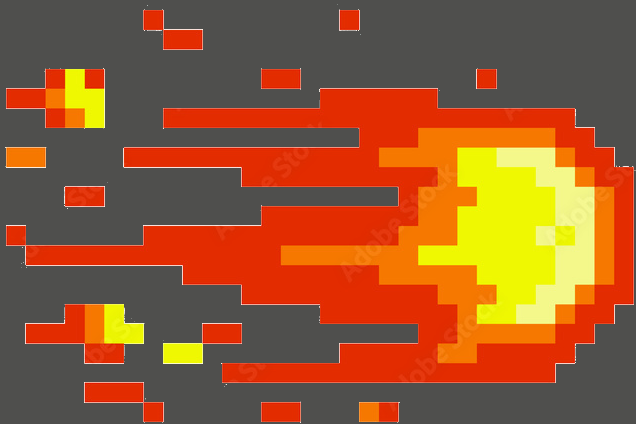
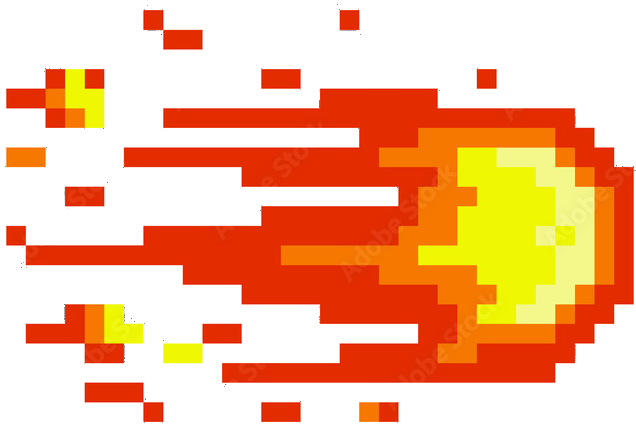
Faze 3 quase pronta

diff --git a/Trabalho_1/Code/PrototipoProjetoPOO2025/src/Modelo/Villan_2.java b/Trabalho_1/Code/PrototipoProjetoPOO2025/src/Modelo/Villan_2.java
@@ -71,6 +71,10 @@ public class Villan_2 extends Personagem implements Serializable {
             BufferedImage resizedImg = new BufferedImage(blockSize, blockSize, BufferedImage.TYPE_INT_ARGB);
             Graphics g = resizedImg.createGraphics();
             
+            // Important: Clear the graphics context with a fully transparent color
+            g.setColor(new java.awt.Color(0, 0, 0, 0));
+            g.fillRect(0, 0, blockSize, blockSize);
+            
             // Draw the image centered in the block
             g.drawImage(img, xOffset, yOffset, finalWidth, finalHeight, null);
             g.dispose();
@@ -80,7 +84,7 @@ public class Villan_2 extends Personagem implements Serializable {
     }
     
     public void autoDesenho(){
-        // Only shoot fireballs if the game is not over
+        // Always process shooting logic, regardless of visibility
         if (!Hero.isGameOver() && targetHero != null) {
             cooldown++;
             if(cooldown >= maxCooldown) {
@@ -89,39 +93,34 @@ public class Villan_2 extends Personagem implements Serializable {
             }
         }
         
-        // Always draw the villain, even when game is over
+        // Draw the villain using parent method
         super.autoDesenho();
     }
     
     private void shootFireball() {
         if (targetHero == null) return;
         
-        // Calculate direction toward hero
+        // Calculate direction toward hero - but only horizontally
         int villainRow = this.getPosicao().getLinha();
         int villainCol = this.getPosicao().getColuna();
-        int heroRow = targetHero.getPosicao().getLinha();
-        int heroCol = targetHero.getPosicao().getColuna();
         
-        // Calculate direction vector
-        int rowDirection = 0;
-        int colDirection = 0;
-        
-        // Determine primary direction (up, down, left, right)
-        if (Math.abs(heroRow - villainRow) > Math.abs(heroCol - villainCol)) {
-            // Vertical movement is primary
-            rowDirection = heroRow > villainRow ? 1 : -1;
-        } else {
-            // Horizontal movement is primary
-            colDirection = heroCol > villainCol ? 1 : -1;
-        }
+        // Set direction vector - only horizontal (no vertical shooting)
+        int rowDirection = 0; // Always 0 for horizontal shooting
+        int colDirection = bRight ? 1 : -1; // 1 for right, -1 for left
         
         try {
             // Create the fireball
             Fireball fireball = new Fireball("Fireball.png", rowDirection, colDirection);
-            fireball.setPosicao(villainRow, villainCol);
+            
+            // Position the fireball one cell away from the villain in the shooting direction
+            fireball.setPosicao(villainRow, villainCol + colDirection);
             
             // Add to the pending fireballs list
             pendingFireballs.add(fireball);
+            
+            // Debug output
+            System.out.println("Fireball created at position: " + villainRow + "," + (villainCol + colDirection) + 
+                               " moving with direction: " + rowDirection + "," + colDirection);
         } catch (Exception e) {
             System.out.println("Error creating fireball: " + e.getMessage());
         }
@@ -149,5 +148,24 @@ public class Villan_2 extends Personagem implements Serializable {
     public void matarHero(Hero hero) {
         System.out.println("Hero killed by villain!"); // Debug message
         hero.morrer();
+    }
+
+    // Add these methods to Villan_2 class
+    public void setShootRate(int rate) {
+        this.maxCooldown = rate;
+    }
+
+    public void setShootDirection(boolean shootRight) {
+        this.bRight = shootRight;
+    }
+
+    public void processLogic() {
+        if (targetHero != null) {
+            cooldown++;
+            if(cooldown >= maxCooldown) {
+                shootFireball();
+                cooldown = 0;
+            }
+        }
     }
 }

diff --git a/Trabalho_1/Code/PrototipoProjetoPOO2025/src/Modelo/Fireball.java b/Trabalho_1/Code/PrototipoProjetoPOO2025/src/Modelo/Fireball.java
@@ -6,6 +6,8 @@ import java.awt.image.BufferedImage;
 import java.io.Serializable;
 import javax.swing.ImageIcon;
 import Auxiliar.Consts;
+import java.awt.geom.AffineTransform;
+import java.awt.image.AffineTransformOp;
 
 public class Fireball extends Personagem implements Serializable {
     private int rowDirection;
@@ -24,6 +26,7 @@ public class Fireball extends Personagem implements Serializable {
     
     /**
      * Resize the image with scaling, keeping it centered in the block.
+     * Also mirror the image if the fireball is moving left.
      */
     private void resizeImage() {
         if (iImage != null) {
@@ -50,6 +53,21 @@ public class Fireball extends Personagem implements Serializable {
             int finalWidth = (int)(desiredWidth * scaleToFit);
             int finalHeight = (int)(desiredHeight * scaleToFit);
             
+            // Create a temporary BufferedImage to draw the original image
+            BufferedImage originalImg = new BufferedImage(finalWidth, finalHeight, BufferedImage.TYPE_INT_ARGB);
+            Graphics g1 = originalImg.createGraphics();
+            g1.drawImage(img, 0, 0, finalWidth, finalHeight, null);
+            g1.dispose();
+            
+            // If moving left (colDirection is negative), mirror the image horizontally
+            if (colDirection < 0) {
+                // Create mirrored version using AffineTransform
+                AffineTransform tx = AffineTransform.getScaleInstance(-1, 1);
+                tx.translate(-originalImg.getWidth(null), 0);
+                AffineTransformOp op = new AffineTransformOp(tx, AffineTransformOp.TYPE_NEAREST_NEIGHBOR);
+                originalImg = op.filter(originalImg, null);
+            }
+            
             // Calculate offsets to center the image in the block
             int xOffset = (blockSize - finalWidth) / 2;
             int yOffset = (blockSize - finalHeight) / 2;
@@ -58,8 +76,12 @@ public class Fireball extends Personagem implements Serializable {
             BufferedImage resizedImg = new BufferedImage(blockSize, blockSize, BufferedImage.TYPE_INT_ARGB);
             Graphics g = resizedImg.createGraphics();
             
-            // Draw the image centered in the block
-            g.drawImage(img, xOffset, yOffset, finalWidth, finalHeight, null);
+            // Important: Clear the graphics context with a fully transparent color
+            g.setColor(new java.awt.Color(0, 0, 0, 0));
+            g.fillRect(0, 0, blockSize, blockSize);
+            
+            // Draw the image centered in the block (original or mirrored)
+            g.drawImage(originalImg, xOffset, yOffset, null);
             g.dispose();
             
             iImage = new ImageIcon(resizedImg);
@@ -76,9 +98,9 @@ public class Fireball extends Personagem implements Serializable {
         // If couldn't move or lifespan is over, mark for removal
         if (!moved || lifespan <= 0 || 
             pPosicao.getLinha() < 0 || 
-            pPosicao.getLinha() >= Consts.RES ||
+            pPosicao.getLinha() >= Consts.MUNDO_ALTURA ||  // Use world size, not screen size
             pPosicao.getColuna() < 0 || 
-            pPosicao.getColuna() >= Consts.RES) {
+            pPosicao.getColuna() >= Consts.MUNDO_LARGURA) {  // Use world size, not screen size
             // Mark for removal
             shouldBeRemoved = true;
         }

diff --git a/Modelo/Villan_2.java b/Modelo/Villan_2.java
@@ -1,0 +1,62 @@
+package Modelo;
+
+import Auxiliar.Consts;
+import Mapas.Fases;
+import auxiliar.Posicao;
+
+public class Villan_2 extends Personagem {
+    private int shootingRate = 30;
+    private boolean shootRight = true;
+    private int shootingCounter = 0;
+    private Fases fases; // Reference to the Fases object
+    
+    public Villan_2(String sNomeImagePNG) {
+        super(sNomeImagePNG);
+    }
+    
+    public void setFases(Fases fases) {
+        this.fases = fases;
+    }
+    
+    public void setShootingRate(int rate) {
+        this.shootingRate = rate;
+    }
+    
+    public void setShootingDirection(boolean right) {
+        this.shootRight = right;
+    }
+    
+    @Override
+    public void autoPilot() {
+        // Increment counter
+        shootingCounter++;
+        
+        // Check if it's time to shoot
+        if (shootingCounter >= shootingRate && fases != null) {
+            shootFireball();
+            shootingCounter = 0;
+        }
+    }
+    
+    private void shootFireball() {
+        // Create a new fireball
+        Fireball fireball = new Fireball("Fireball.png"); // Use your fireball image name
+        
+        // Set position to start from villain
+        int startX = this.getPosicao().getColuna();
+        int startY = this.getPosicao().getLinha();
+        
+        // Adjust starting position based on direction
+        if (shootRight) {
+            startX += 1; // Start fireball to the right of villain
+        } else {
+            startX -= 1; // Start fireball to the left of villain
+        }
+        
+        fireball.setPosicao(startY, startX);
+        fireball.setDirection(shootRight);
+        
+        // Add fireball to game elements
+        fases.addFireball(fireball);
+    }
+} 

diff --git a/Trabalho_1/Code/PrototipoProjetoPOO2025/src/Mapas/Fases.java b/Trabalho_1/Code/PrototipoProjetoPOO2025/src/Mapas/Fases.java
@@ -113,11 +113,14 @@ public class Fases {
         addFruta(18, 8);
         addFruta(25, 4);
 
-        // Add villains - uncomment and modify as needed
-        addVilao2(4, 1, true); 
-        addVilao2(11, 1, true); 
-        addVilao2(18, 1, true); 
-        addVilao2(25, 1, true); 
+        // Add villains with rate and direction parameters
+        // Parameters: (row, column, rate, shootRight)
+        addVilao2(4, 1, 20, true);   // Move to column 2 (away from wall) and shoot right
+        addVilao2(11, 13, 20, false);  // Move to column 2 (away from wall) and shoot right
+        
+        // Updated positions for villains 3 and 4
+        addVilao2(18, 1, 20, true);  // Move to column 2 (away from wall) and shoot right
+        addVilao2(25, 13, 20, false);  // Move to column 2 (away from wall) and shoot right
     }
 
     /**
@@ -175,10 +178,19 @@ public class Fases {
         }
     }
 
-    private void addVilao2(int linha, int coluna, boolean isZigueZague) {
+    /**
+     * Helper method to add a villain type 2 with shooting parameters
+     * @param linha Row position
+     * @param coluna Column position
+     * @param rate Shooting rate (higher = slower)
+     * @param shootRight Direction to shoot (true = right, false = left)
+     */
+    private void addVilao2(int linha, int coluna, int rate, boolean shootRight) {
         Villan_2 vilao = new Villan_2("Villan_1.png");
         vilao.setPosicao(linha, coluna);
-        vilao.setTarget(hero);
+        vilao.setTarget(hero);       // Set the hero as the target
+        vilao.setShootRate(rate);    // Set the shooting rate
+        vilao.setShootDirection(shootRight); // Set shooting direction
         this.elementos.add(vilao);
     }
 

diff --git a/Mapas/Fases.java b/Mapas/Fases.java
@@ -1,0 +1,42 @@
+/**
+ * Helper method to add a villain type 2 with shooting parameters
+ * @param linha Row position
+ * @param coluna Column position
+ * @param rate Shooting rate (higher = slower)
+ * @param shootRight Direction to shoot (true = right, false = left)
+ */
+private void addVilao2(int linha, int coluna, int rate, boolean shootRight) {
+    Villan_2 vilao = new Villan_2("Villan_1.png");
+    vilao.setPosicao(linha, coluna);
+    vilao.setFases(this); // Pass a reference to the Fases object
+    vilao.setShootingRate(rate);
+    vilao.setShootingDirection(shootRight);
+    this.elementos.add(vilao);
+}
+
+/**
+ * Configure level 3
+ */
+private void configureLevel3() {
+    hero.setPosicao(2, 7);
+    
+    // Add fruits
+    addFruta(4, 8);
+    addFruta(11, 4);
+    addFruta(18, 8);
+    addFruta(25, 4);
+
+    // Use regular villains instead of Villan_2
+    addVilao(4, 1, true);
+    addVilao(11, 1, true);
+    addVilao(18, 1, true);
+    addVilao(25, 1, true);
+}
+
+/**
+ * Adds a fireball to the game elements
+ * @param fireball The fireball to add
+ */
+public void addFireball(Fireball fireball) {
+    this.elementos.add(fireball);
+} 

diff --git a/Modelo/Fireball.java b/Modelo/Fireball.java
@@ -1,0 +1,38 @@
+package Modelo;
+
+import Auxiliar.Consts;
+import Auxiliar.Desenho;
+import auxiliar.Posicao;
+
+public class Fireball extends Personagem {
+    private boolean movingRight;
+    private int speed = 1;
+    
+    public Fireball(String sNomeImagePNG) {
+        super(sNomeImagePNG);
+    }
+    
+    public void setDirection(boolean right) {
+        this.movingRight = right;
+    }
+    
+    @Override
+    public void autoPilot() {
+        // Move in the set direction
+        if (movingRight) {
+            moveRight();
+        } else {
+            moveLeft();
+        }
+    }
+    
+    private void moveRight() {
+        Posicao p = new Posicao(this.getPosicao().getLinha(), this.getPosicao().getColuna() + speed);
+        this.setPosicao(p);
+    }
+    
+    private void moveLeft() {
+        Posicao p = new Posicao(this.getPosicao().getLinha(), this.getPosicao().getColuna() - speed);
+        this.setPosicao(p);
+    }
+} 

diff --git a/Trabalho_1/Code/PrototipoProjetoPOO2025/src/Controler/ControleDeJogo.java b/Trabalho_1/Code/PrototipoProjetoPOO2025/src/Controler/ControleDeJogo.java
@@ -29,6 +29,17 @@ public class ControleDeJogo {
         }
         
         if (hero != null) {
+            // Process ALL villains to generate fireballs, regardless of visibility
+            for (Personagem p : umaFase) {
+                if (p instanceof Villan_2) {
+                    Villan_2 vilao = (Villan_2) p;
+                    // Manually process the villain's logic to ensure fireballs are created
+                    if (!Hero.isGameOver()) {
+                        vilao.processLogic();
+                    }
+                }
+            }
+        
             // Add any pending fireballs
             ArrayList<Fireball> fireballs = Villan_2.getPendingFireballs();
             for (Fireball fireball : fireballs) {
